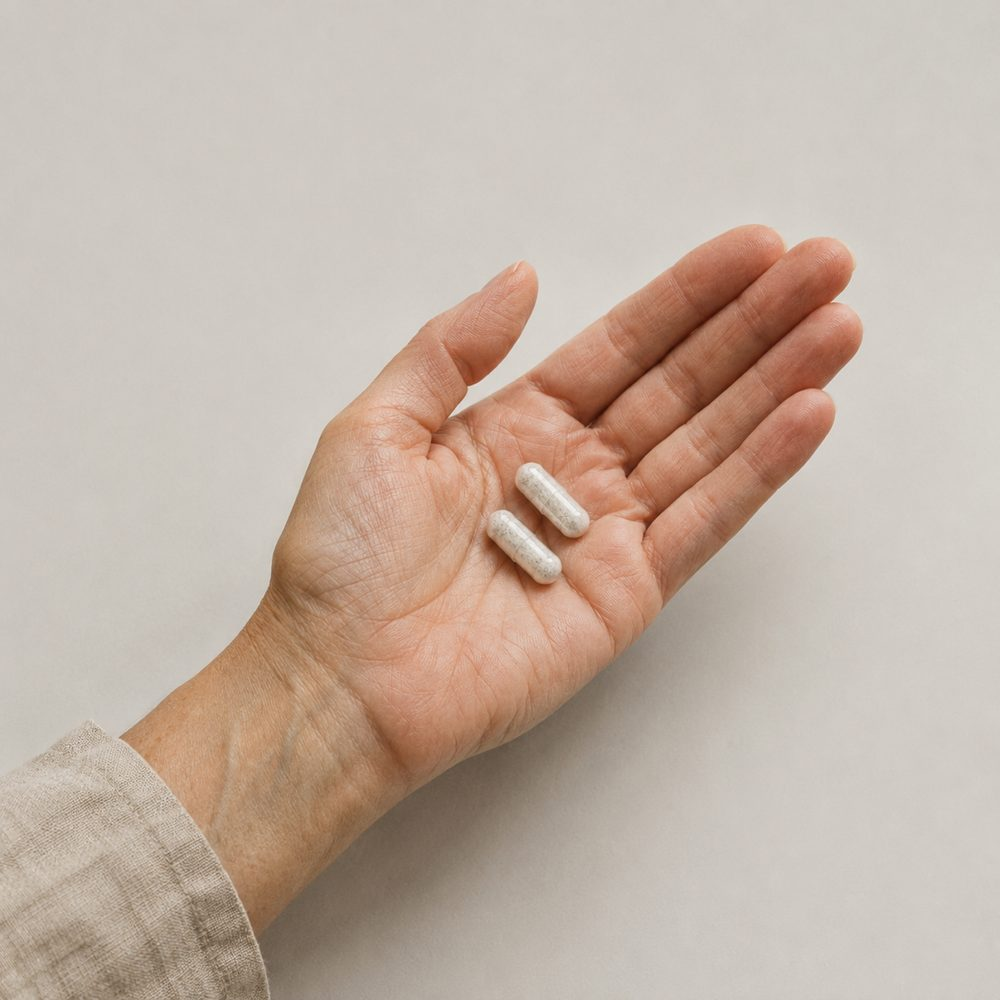
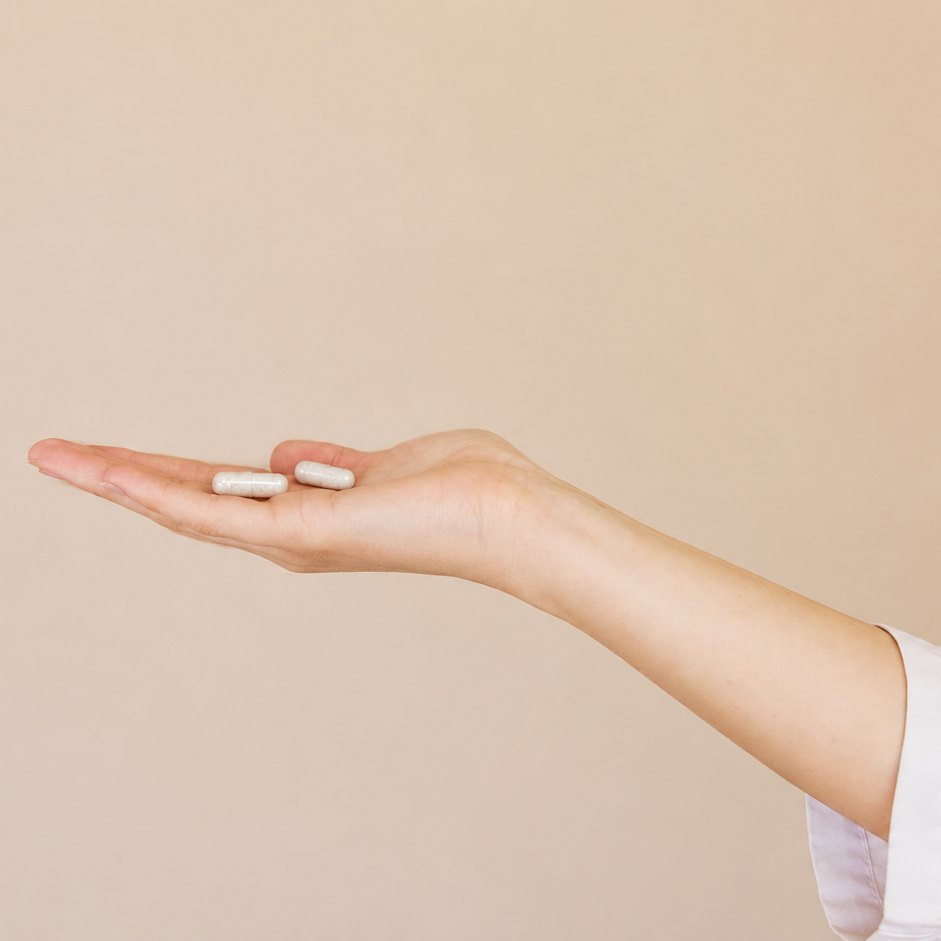
docs: NAD⁺-Bildkonzept mit echten Pexels-Fotos statt KI-Menschen
Ritual und Kapseln: echte Hände von Pexels, Dose und Kapseln per Codex
eingesetzt. Wirkprinzip: echtes Sofa-Foto ohne Produkt (Pexels-Lizenz,
keine Fürsprache erkennbarer Personen). Galerie 4: verwischtes
Bewegungsbild ki-bewegung-b2.

diff --git a/docs/entwurf-nad-pdp-visual-2026-11-05.html b/docs/entwurf-nad-pdp-visual-2026-11-05.html
@@ -235,11 +235,14 @@ body.m .frame{max-width:375px}
   </div>
 
   <div class="offen">
-    <h2>Neu erzeugt am 05.11.2026 (Codex, Projekt ki-bilder)</h2>
+    <h2>Bilder mit Menschen: echt oder unscharf (05.11.2026)</h2>
+    <p>Die ersten KI-Menschen sahen zu sehr nach KI aus. Jetzt gilt: <b>Gesicht zu sehen, dann echtes Foto von Pexels und kein Produkt im Bild</b>, weil die Pexels-Lizenz nicht erlaubt, dass eine erkennbare Person für das Produkt spricht. <b>Produkt im Bild, dann ohne Gesicht</b>: echte Hände von Pexels, Dose und Kapseln per Codex eingesetzt. <b>Bewegungsbilder</b> mit verwischtem Gesicht dürfen KI bleiben.</p>
     <ol>
-      <li><b>Ritual am Küchentisch</b> (Galerie 2): Frau Anfang 50 am Frühstückstisch, zwei Kapseln in der Hand, die echte Dose aus <code>requisiten/nad-dose-frei.png</code> vorne, Etikett unverändert. <code>lifestyle/ki-nad-ritual-kueche.jpg</code></li>
-      <li><b>Zwei Kapseln in der Hand</b> (Galerie 3): Hand einer Frau um 50, Leinenärmel, Grund <code>#f2f1ed</code>. <code>lifestyle/ki-nad-kapseln-hand.jpg</code></li>
-      <li><b>Liposom warm</b> (Belege: Die Form): Glaskugel mit Hülle und Mint-Kern auf Beige, ersetzt den kalten blauen Ausschnitt. <code>lifestyle/ki-nad-liposom-warm.jpg</code></li>
+      <li><b>Ritual</b> (Galerie 2): echte Hände um eine Teetasse auf Leinen, Pexels-Foto von Кристина Александрова, Dose und zwei Kapseln eingesetzt, Etikett geprüft. <code>lifestyle/nad-ritual-tee-echt.jpg</code></li>
+      <li><b>Zwei Kapseln in der Hand</b> (Galerie 3): echte Hand vor beiger Wand, Pexels-Foto von Artem Podrez, Tabletten gegen genau zwei unserer Kapseln getauscht. <code>lifestyle/nad-kapseln-hand-echt.jpg</code></li>
+      <li><b>Frau auf dem Sofa</b> (Wirkprinzip, unter der −60 %-Karte): echtes Pexels-Foto von Teona Swift, unverändert, nur auf 4:5 beschnitten. <code>lifestyle/frau-sofa-tee.jpg</code></li>
+      <li><b>Bewegung</b> (Galerie 4): <code>ki-bewegung-b2</code> statt <code>ki-bewegung-a</code>, Gesicht verwischt.</li>
+      <li><b>Liposom warm</b> (Belege: Die Form) bleibt, kein Mensch im Bild. <code>lifestyle/ki-nad-liposom-warm.jpg</code></li>
     </ol>
   </div>
 
@@ -267,9 +270,9 @@ body.m .frame{max-width:375px}
         </div>
         <div class="thumbs" role="list">
           <button type="button" aria-current="true" data-src="entwurf-nad-pdp-visual-2026-11-05/galerie-dose.jpg" data-fit="contain" data-tag="vorhanden" data-cap="1 Dose frontal. Bleibt als Startbild: sie erkennt das Produkt, das sie aus der Anzeige kennt."><img src="entwurf-nad-pdp-visual-2026-11-05/galerie-dose.jpg" alt=""><b>1</b></button>
-          <button type="button" data-src="entwurf-nad-pdp-visual-2026-11-05/galerie-ritual.jpg" data-fit="cover" data-tag="neu erzeugt" data-cap="2 Ritual: Frau um 50 am Frühstückstisch, zwei Kapseln in der Hand, die echte Dose vorne. So passt NAD⁺ in ihren Morgen."><img src="entwurf-nad-pdp-visual-2026-11-05/galerie-ritual.jpg" alt=""><b>2</b></button>
-          <button type="button" data-src="entwurf-nad-pdp-visual-2026-11-05/galerie-kapseln-hand.jpg" data-fit="cover" data-tag="neu erzeugt" data-cap="3 Zwei Kapseln in der offenen Hand. So groß ist die Tagesportion."><img src="entwurf-nad-pdp-visual-2026-11-05/galerie-kapseln-hand.jpg" alt=""><b>3</b></button>
-          <button type="button" data-src="entwurf-nad-pdp-visual-2026-11-05/ki-bewegung-a.jpg" data-fit="cover" data-tag="vorhanden" data-cap="4 Frau Anfang 50 zügig am Wasser, Abendsonne, Bewegungsunschärfe. Ersetzt den jungen Läufer: Energie im Alltag, nicht Sport."><img src="entwurf-nad-pdp-visual-2026-11-05/ki-bewegung-a.jpg" alt=""><b>4</b></button>
+          <button type="button" data-src="entwurf-nad-pdp-visual-2026-11-05/galerie-ritual.jpg" data-fit="cover" data-tag="Pexels + Dose" data-cap="2 Ritual: echte Hände um eine Tasse Tee auf Leinen (Pexels), daneben die echte Dose und zwei Kapseln, per Codex eingesetzt. So passt NAD⁺ in ihren Morgen. Kein Gesicht, deshalb darf die Dose ins Bild."><img src="entwurf-nad-pdp-visual-2026-11-05/galerie-ritual.jpg" alt=""><b>2</b></button>
+          <button type="button" data-src="entwurf-nad-pdp-visual-2026-11-05/galerie-kapseln-hand.jpg" data-fit="cover" data-tag="Pexels + Kapseln" data-cap="3 Echte Hand vor beiger Wand (Pexels), statt der Tabletten liegen genau zwei unserer Kapseln darin, per Codex getauscht. So klein ist die Tagesportion."><img src="entwurf-nad-pdp-visual-2026-11-05/galerie-kapseln-hand.jpg" alt=""><b>3</b></button>
+          <button type="button" data-src="entwurf-nad-pdp-visual-2026-11-05/ki-bewegung-b2.jpg" data-fit="cover" data-tag="vorhanden" data-cap="4 Frau Anfang 50 läuft den Hügelpfad hinauf, starke Bewegungsunschärfe, Gesicht nicht erkennbar. Ersetzt den jungen Läufer: Energie im Alltag, nicht Sport. Hier darf es KI sein, weil niemand ein Gesicht prüft."><img src="entwurf-nad-pdp-visual-2026-11-05/ki-bewegung-b2.jpg" alt=""><b>4</b></button>
           <button type="button" data-src="entwurf-nad-pdp-visual-2026-11-05/galerie-etikett.jpg" data-fit="contain" data-tag="vorhanden" data-cap="5 Etikett abgerollt. Für die, die erst die Zutaten sehen will. Achtung: Berliner Anschrift auf dem Etikett."><img src="entwurf-nad-pdp-visual-2026-11-05/galerie-etikett.jpg" alt=""><b>5</b></button>
         </div>
         <p class="gal-cap" id="galcap">1 Dose frontal. Bleibt als Startbild: sie erkennt das Produkt, das sie aus der Anzeige kennt.</p>
@@ -296,7 +299,7 @@ body.m .frame{max-width:375px}
   <aside class="note"><dl>
     <dt>Zweck</dt><dd>In zwei Sekunden: Was ist das, ist das für mich, was riskiere ich?</dd>
     <dt>Bildtyp</dt><dd>Produktbild, Alltagsfoto, Hände mit Produkt, Etikett. Keine Textbilder.</dd>
-    <dt>Motive</dt><dd>1 Dose frontal <span class="tag da">vorhanden</span> · 2 Frau Anfang 50 am Frühstückstisch, Morgenlicht, Dose scharf vorne <span class="tag neu">neu erzeugt</span> · 3 offene Hand mit zwei Kapseln auf Hellgrau <span class="tag neu">neu erzeugt</span> · 4 Frau Anfang 50 zügig am Wasser, Abendsonne <span class="tag da">vorhanden</span> · 5 Etikett abgerollt <span class="tag da">vorhanden</span>. Raus: Liposomen mit Werbetext, Dose mit „Laborgeprüft“-Pillen, junger Läufer mit Text, Qualitätsversprechen mit Labor-Logos.</dd>
+    <dt>Motive</dt><dd>1 Dose frontal <span class="tag da">vorhanden</span> · 2 echte Hände um eine Teetasse auf Leinen, Dose und zwei Kapseln daneben <span class="tag neu">Pexels + Dose</span> · 3 echte offene Hand mit zwei Kapseln vor beiger Wand <span class="tag neu">Pexels + Kapseln</span> · 4 Frau Anfang 50 läuft bergauf, Gesicht verwischt <span class="tag da">vorhanden</span> · 5 Etikett abgerollt <span class="tag da">vorhanden</span>. Raus: Liposomen mit Werbetext, Dose mit „Laborgeprüft“-Pillen, junger Läufer mit Text, Qualitätsversprechen mit Labor-Logos.</dd>
     <dt>Platz</dt><dd>Desktop: Galerie links, Kaufzone rechts, Daumen zum Klicken (hier ausprobieren). Mobil: Galerie oben als Wischstrecke, Dose zuerst, Kaufzone darunter. Garantie-Kachel neben dem Versand direkt unter dem Knopf, nicht als Link.</dd>
     <dt>Warum leichter</dt><dd>Jedes Bild trägt genau einen Gedanken: das Produkt, das Ritual, die Menge, das Gefühl, die Zutaten. Eingebrannter Text ist mobil 9 px groß und wird übersprungen; ohne ihn liest sie das Bild statt es zu entziffern. Das Ritualbild beantwortet „wie passt das in meinen Morgen“, bevor sie danach fragt.</dd>
   </dl></aside>
@@ -311,8 +314,8 @@ body.m .frame{max-width:375px}
           <h3 class="h-stack">Was NAD⁺ in deinen Zellen macht <span>Und warum der Spiegel mit dem Alter zählt.</span></h3>
 
         <figure class="einbl" style="margin:0">
-          <span class="tag da ph" style="left:auto;right:10px">Foto vorhanden · Karte in HTML</span>
-          <img src="entwurf-nad-pdp-visual-2026-11-05/ki-frau-handy-zuhause.jpg" alt="Frau Anfang 50 auf dem Sofa, hält ihr Handy">
+          <span class="tag da ph" style="left:auto;right:10px">Pexels-Foto · Karte in HTML</span>
+          <img src="entwurf-nad-pdp-visual-2026-11-05/frau-sofa-tee.jpg" alt="Frau um 55 auf dem Sofa mit einer Tasse Tee">
           <figcaption class="glass">
             <div class="big">−60 %</div>
             <div class="lbl">NAD⁺ in der Haut mit 51–70 Jahren gegenüber 30–50 Jahren</div>
@@ -331,7 +334,7 @@ body.m .frame{max-width:375px}
   <aside class="note"><dl>
     <dt>Zweck</dt><dd>Sie versteht, warum NAD⁺ gerade in ihrem Alter Thema ist.</dd>
     <dt>Bildtyp</dt><dd>Einblendung: echtes Lifestyle-Foto, darüber eine helle Glaskarte mit einer Zahl als Grafik. Muster Aniva, BJ-Geschmack „Einblendung“.</dd>
-    <dt>Motiv</dt><dd>Frau Anfang 50 zu Hause auf dem hellen Sofa, schaut aufs Handy, Tageslicht, untere Bildhälfte ruhig (<code>ki-frau-handy-zuhause</code>, für genau diese Karte erzeugt) <span class="tag da">vorhanden</span>. Karte: „−60 %“ groß, zwei Balken 30–50 und 51–70 Jahre, Quelle klein. Text und Balken in HTML, nie ins Bild gerendert.</dd>
+    <dt>Motiv</dt><dd>Echte Frau um 55 auf dem Sofa mit einer Tasse Tee, Tageslicht, Pullover in Creme und Hellblau (Pexels, Teona Swift, <code>lifestyle/frau-sofa-tee</code>) <span class="tag da">vorhanden</span>. Kein Produkt im Bild: Ein erkennbares Pexels-Gesicht darf laut Lizenz nicht für das Produkt sprechen. Karte: „−60 %“ groß, zwei Balken 30–50 und 51–70 Jahre, Quelle klein. Text und Balken in HTML, nie ins Bild gerendert.</dd>
     <dt>Platz</dt><dd>Desktop: Text links, Einblendung rechts 4:5 (wie die heutige Bildspalte). Mobil: Überschrift, dann die Einblendung volle Breite, dann Energie und Reparatur. Die dritte Stufe „Alter“ geht in der Karte auf.</dd>
     <dt>Warum leichter</dt><dd>„Sirtuine“ und „PARP“ versteht sie nicht, „−60 %“ in einer Sekunde. Die Frau im Bild ist sie selbst, die Zahl betrifft ihre Altersgruppe. Das alte Liposomen-Bild erklärte die Form, nicht die Wirkung, und gehört nach unten zu „Die Form“. Die zwei kleinen Strichsymbole nur, wenn die Sitzung die Stufen behält; sonst weglassen.</dd>
   </dl></aside>
